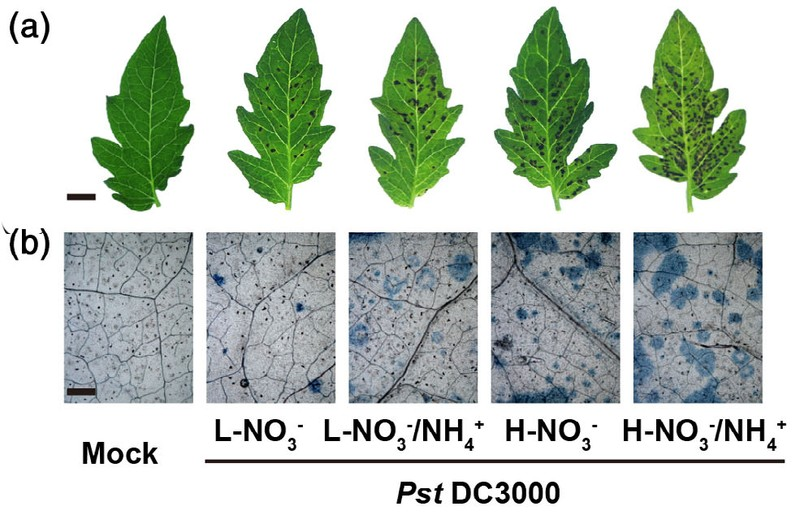
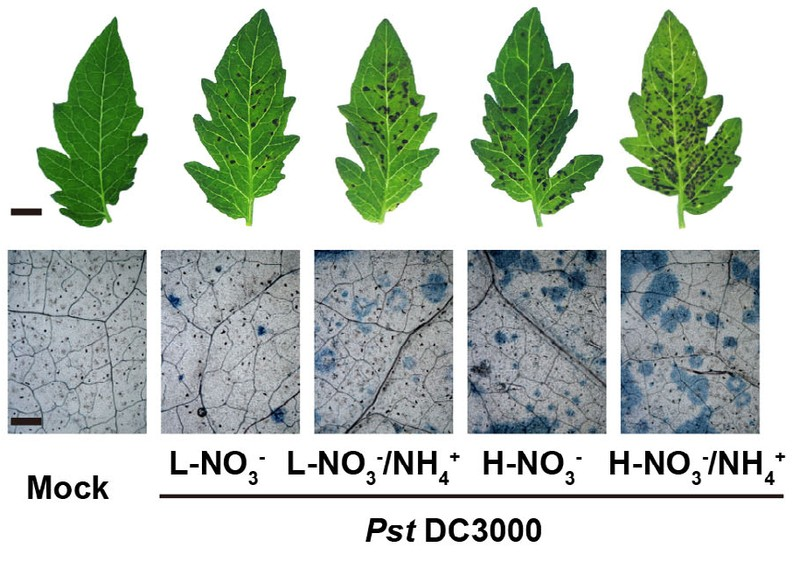
Italicize gene names and drop panel labels from PCE 2021 figure

diff --git a/index.html b/index.html
@@ -331,7 +331,7 @@
       <p class="paper-meta"><span class="venue">Plant Cell Environ 2021</span><strong>S Ding</strong>, X Shao, J Li, et al.</p>
       <ul>
         <li>Low N and nitrate as the sole N source enhance tomato immunity to foliar and root pathogens.</li>
-        <li>Silencing N metabolism genes (NR, NiR, Fd-GOGAT) reduces disease susceptibility.</li>
+        <li>Silencing N metabolism genes (<em>NR</em>, <em>NiR</em>, <em>Fd-GOGAT</em>) reduces disease susceptibility.</li>
         <li>N-modulated defence depends on the salicylic acid pathway.</li>
       </ul>
     </div>
